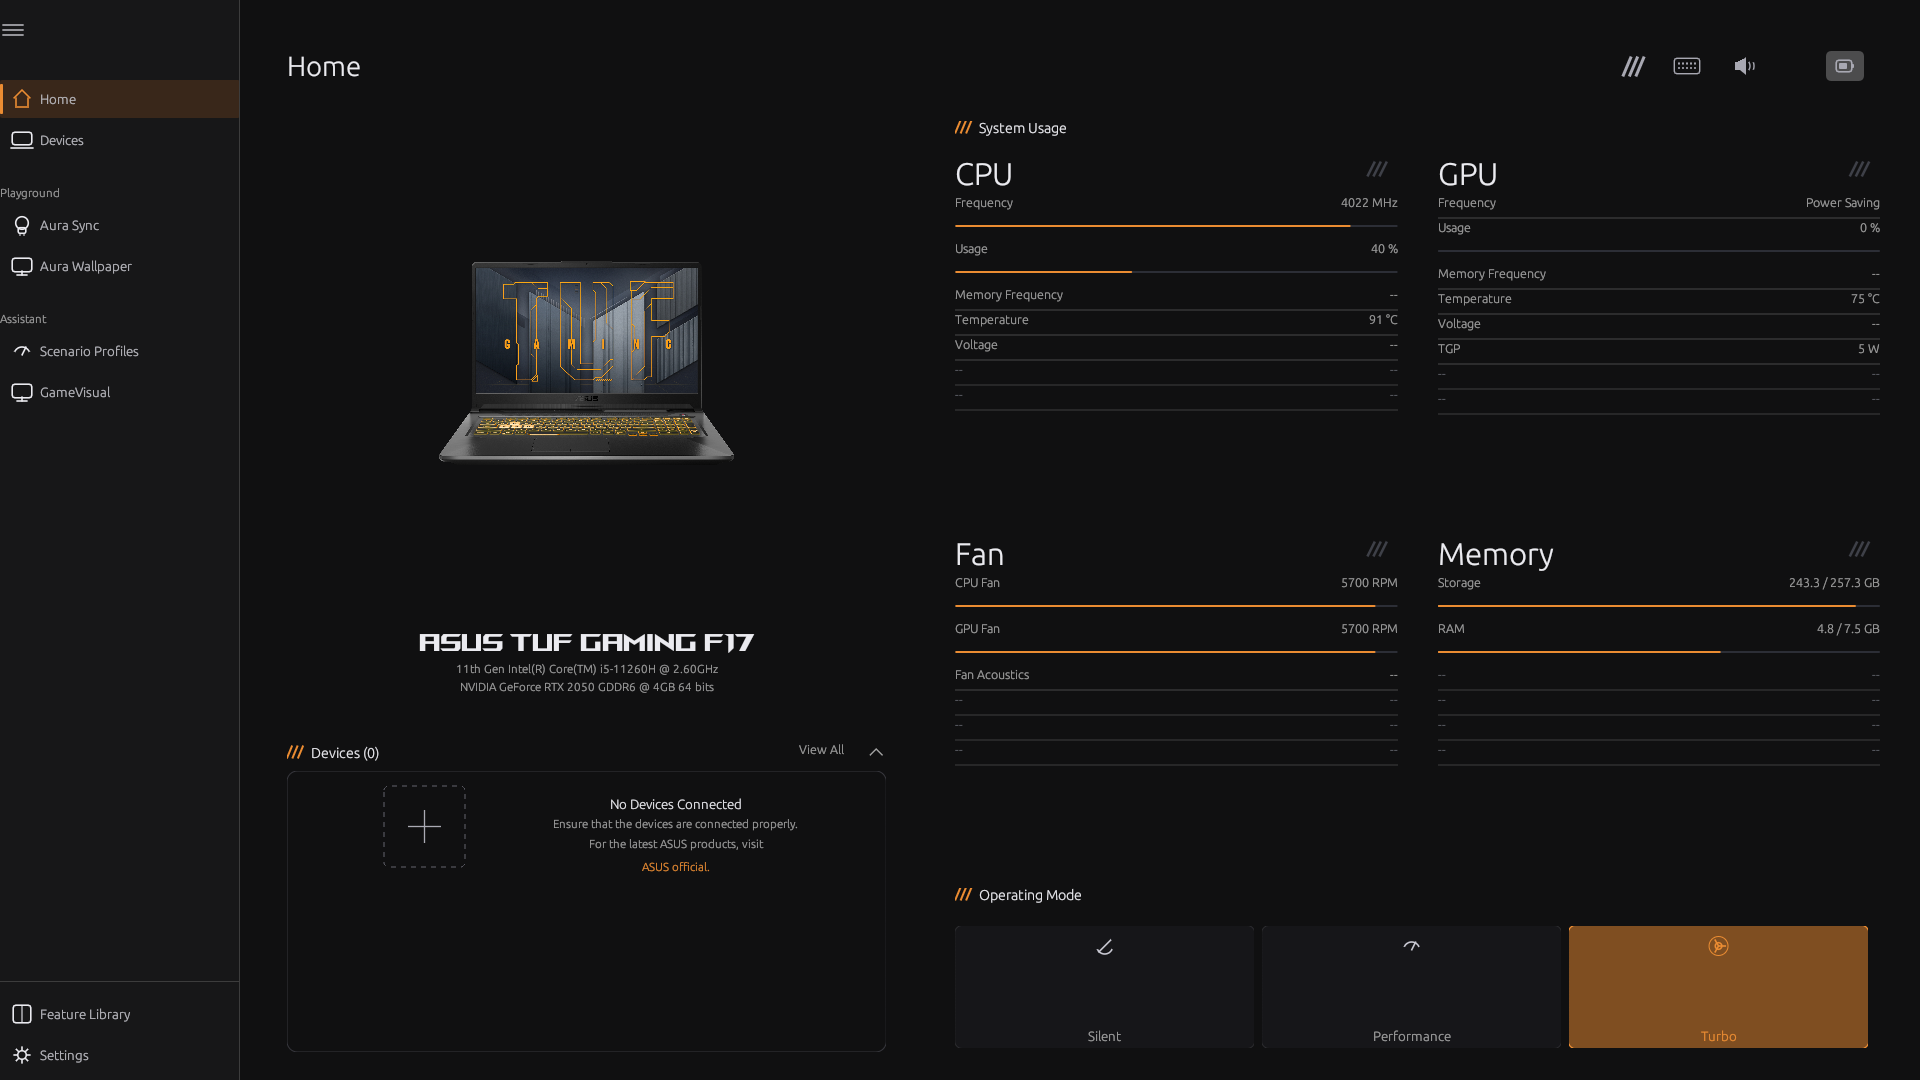
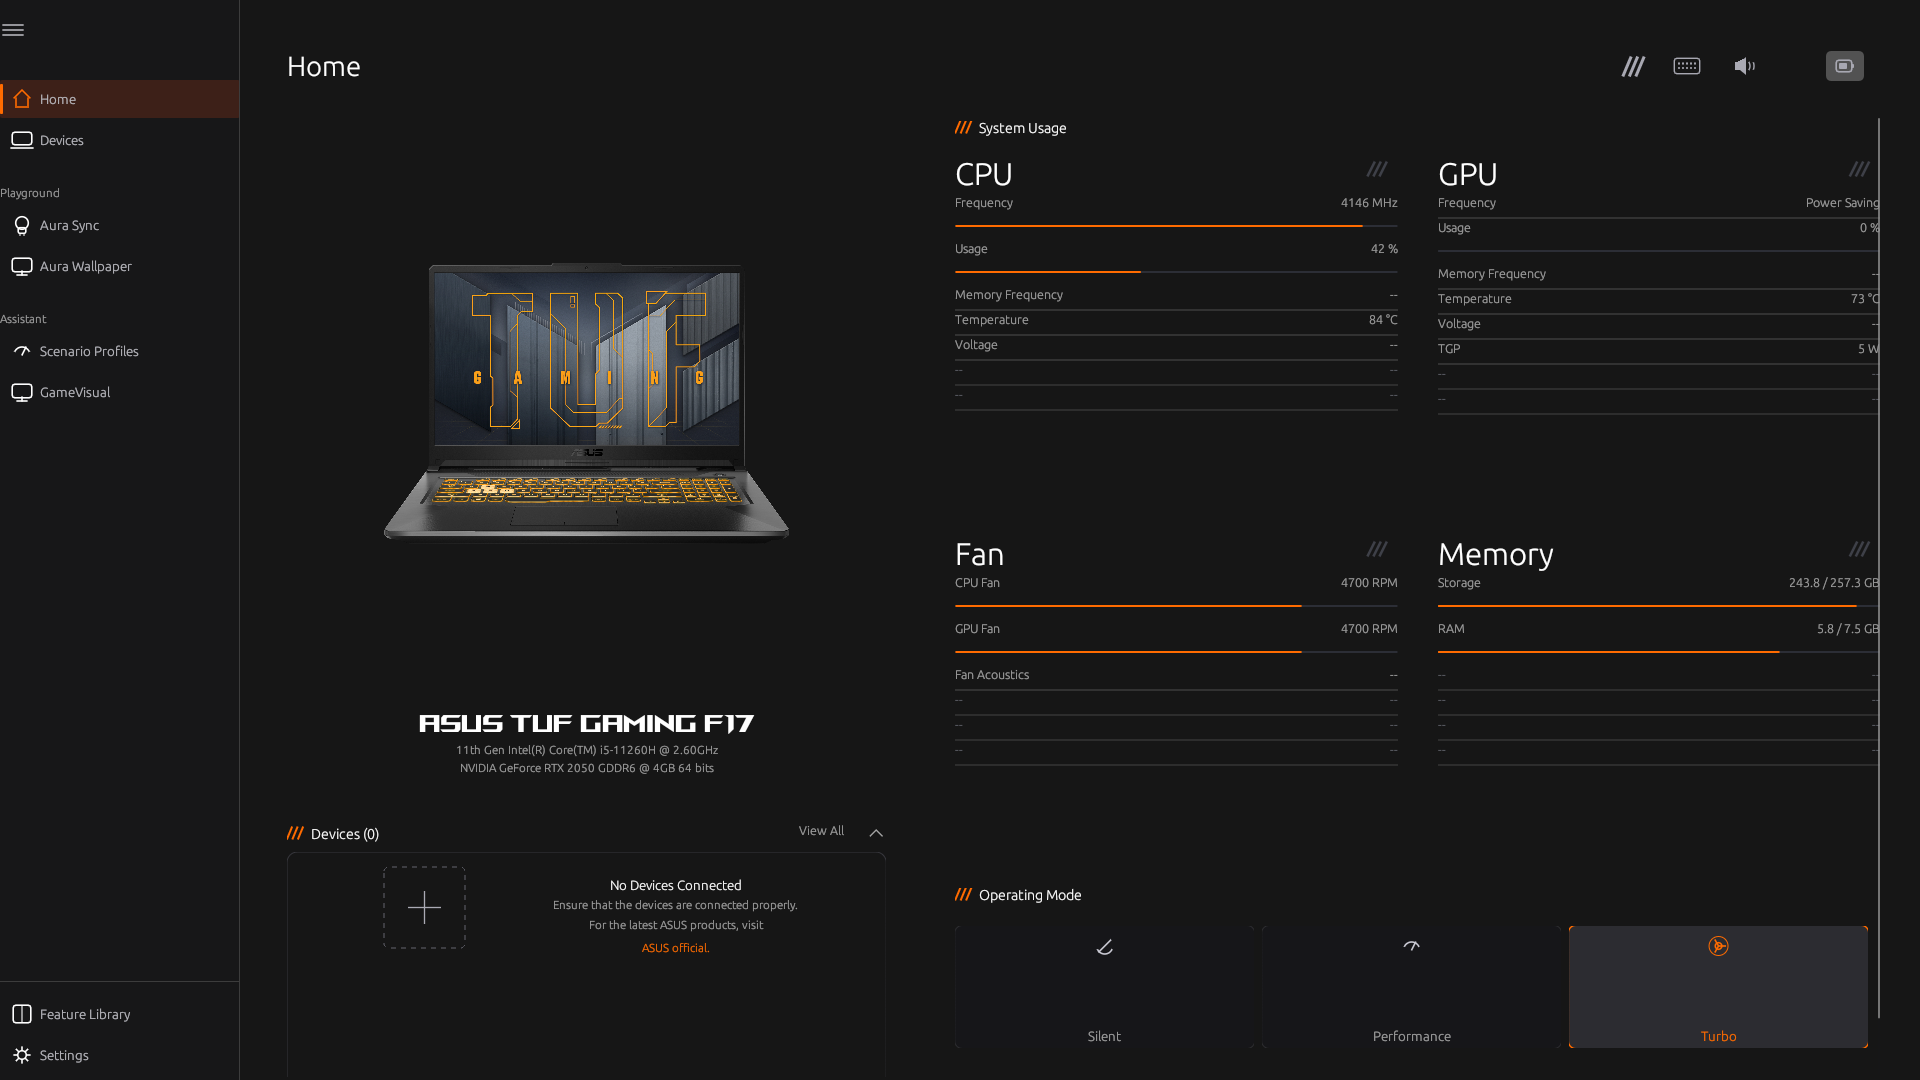
ui: working header controls, collapsible sidebar, model-aware hero/splash
- ROG/keyboard/audio/battery header icons now navigate with tooltips
- hamburger collapses/restores the sidebar
- DMI product family drives splash/Home labels; hero resolves per model
- Home hero enlarged ~37% without moving captions
- fallback preview no longer claims TUF on non-TUF models

diff --git a/crates/tuf-gui/src/main.rs b/crates/tuf-gui/src/main.rs
@@ -1470,8 +1470,22 @@ fn dashed_rounded_rect(p: &egui::Painter, rect: egui::Rect, r: f32, stroke: egui
 }
 
 /// Windows Armoury Crate header cluster: ROG mark, keyboard, audio, battery.
-fn header_icons(ui: &mut egui::Ui, battery: Option<u32>, profile: Option<&str>) {
-    let (rect, resp) = ui.allocate_exact_size(egui::vec2(250.0, 32.0), egui::Sense::hover());
+#[derive(Clone, Copy, PartialEq, Eq)]
+enum HeaderAction {
+    None,
+    Rog,
+    Keyboard,
+    Audio,
+    Battery,
+}
+
+fn header_icons(
+    ui: &mut egui::Ui,
+    battery: Option<u32>,
+    profile: Option<&str>,
+) -> HeaderAction {
+    let (rect, _) = ui.allocate_exact_size(egui::vec2(250.0, 32.0), egui::Sense::hover());
+    let mut action = HeaderAction::None;
     let p = ui.painter_at(rect);
     let muted = egui::Color32::from_rgb(168, 168, 178);
     // battery tile at the far right
@@ -1534,13 +1548,60 @@ fn header_icons(ui: &mut egui::Ui, battery: Option<u32>, profile: Option<&str>) 
             egui::Stroke::new(3.0, muted),
         ));
     }
+    let rog_rect = egui::Rect::from_center_size(
+        egui::pos2(rect.right() - 226.0, rect.center().y),
+        egui::vec2(36.0, 32.0),
+    );
+    let kb_rect = egui::Rect::from_center_size(
+        egui::pos2(rect.right() - 176.0, rect.center().y),
+        egui::vec2(34.0, 32.0),
+    );
+    let sp_rect = egui::Rect::from_center_size(
+        egui::pos2(rect.right() - 120.0, rect.center().y),
+        egui::vec2(34.0, 32.0),
+    );
+    let rog = ui.interact(rog_rect, egui::Id::new("hdr-rog"), egui::Sense::click());
+    let kb = ui.interact(kb_rect, egui::Id::new("hdr-kb"), egui::Sense::click());
+    let sp = ui.interact(sp_rect, egui::Id::new("hdr-sp"), egui::Sense::click());
+    let bat = ui.interact(tile, egui::Id::new("hdr-bat"), egui::Sense::click());
+    for (r, hovered) in [
+        (rog_rect, rog.hovered()),
+        (kb_rect, kb.hovered()),
+        (sp_rect, sp.hovered()),
+        (tile, bat.hovered()),
+    ] {
+        if hovered {
+            p.rect_filled(
+                r,
+                6.0,
+                egui::Color32::from_rgba_unmultiplied(255, 255, 255, 14),
+            );
+        }
+    }
+    if rog.clicked() {
+        action = HeaderAction::Rog;
+    } else if kb.clicked() {
+        action = HeaderAction::Keyboard;
+    } else if sp.clicked() {
+        action = HeaderAction::Audio;
+    } else if bat.clicked() {
+        action = HeaderAction::Battery;
+    }
+    rog.on_hover_cursor(egui::CursorIcon::PointingHand)
+        .on_hover_text("Home");
+    kb.on_hover_cursor(egui::CursorIcon::PointingHand)
+        .on_hover_text("Lighting & Aura Sync");
+    sp.on_hover_cursor(egui::CursorIcon::PointingHand)
+        .on_hover_text("Audio");
     let tip = match (battery, profile) {
         (Some(b), Some(p)) => format!("Battery {b}% · profile {p}"),
         (Some(b), None) => format!("Battery {b}%"),
         (None, Some(p)) => format!("profile {p}"),
-        (None, None) => "System status".into(),
+        (None, None) => "Battery & power".into(),
     };
-    resp.on_hover_text(tip);
+    bat.on_hover_cursor(egui::CursorIcon::PointingHand)
+        .on_hover_text(format!("{tip}\nOpen battery & power controls"));
+    action
 }
 
 #[allow(dead_code)]
@@ -2139,6 +2200,8 @@ struct TufApp {
     splash_start: std::time::Instant,
     splash_logo: Option<egui::TextureHandle>,
     hero_model: String,
+    device_family: String,
+    sidebar_open: bool,
     hero_image: Option<egui::TextureHandle>,
     hero_line: Option<egui::TextureHandle>,
     anim_cpu: f32,
@@ -2251,6 +2314,7 @@ impl TufApp {
         };
         apply_theme_visuals(ctx, theme);
         let hero_model = assets::detect_model();
+        let device_family = assets::device_family(&hero_model);
         let hero_image = assets::hero_texture(ctx, &hero_model, false);
         let hero_line = assets::hero_texture(ctx, &hero_model, true);
         let theme_previews = [
@@ -2301,6 +2365,8 @@ impl TufApp {
             splash_start: std::time::Instant::now(),
             splash_logo,
             hero_model,
+            device_family,
+            sidebar_open: true,
             hero_image,
             hero_line,
             theme_previews,
@@ -2801,14 +2867,15 @@ impl eframe::App for TufApp {
             });
         }
 
+        if self.sidebar_open {
         egui::SidePanel::left("nav")
             .exact_width(240.0)
             .frame(egui::Frame::none().fill(sidebar_bg()))
             .show(ctx, |ui| {
                 ui.add_space(18.0);
                 ui.horizontal(|ui| {
-                    let (r, _) =
-                        ui.allocate_exact_size(egui::vec2(26.0, 24.0), egui::Sense::hover());
+                    let (r, resp) =
+                        ui.allocate_exact_size(egui::vec2(26.0, 24.0), egui::Sense::click());
                     let p = ui.painter_at(r);
                     for i in 0..3 {
                         p.add(egui::Shape::line(
@@ -2818,6 +2885,13 @@ impl eframe::App for TufApp {
                             ],
                             egui::Stroke::new(1.5, egui::Color32::from_rgb(190, 190, 196)),
                         ));
+                    }
+                    if resp
+                        .on_hover_cursor(egui::CursorIcon::PointingHand)
+                        .on_hover_text("Hide navigation")
+                        .clicked()
+                    {
+                        self.sidebar_open = false;
                     }
                 });
                 ui.add_space(35.0);
@@ -2886,6 +2960,32 @@ impl eframe::App for TufApp {
                     ui.separator();
                 });
             });
+        } else {
+            egui::Area::new(egui::Id::new("nav-reopen"))
+                .fixed_pos(egui::pos2(10.0, 10.0))
+                .order(egui::Order::Foreground)
+                .show(ctx, |ui| {
+                    let (r, resp) =
+                        ui.allocate_exact_size(egui::vec2(30.0, 28.0), egui::Sense::click());
+                    let p = ui.painter_at(r);
+                    for i in 0..3 {
+                        p.add(egui::Shape::line(
+                            vec![
+                                egui::pos2(r.left() + 6.0, r.top() + 8.0 + i as f32 * 6.0),
+                                egui::pos2(r.right() - 6.0, r.top() + 8.0 + i as f32 * 6.0),
+                            ],
+                            egui::Stroke::new(1.6, text_main()),
+                        ));
+                    }
+                    if resp
+                        .on_hover_cursor(egui::CursorIcon::PointingHand)
+                        .on_hover_text("Show navigation")
+                        .clicked()
+                    {
+                        self.sidebar_open = true;
+                    }
+                });
+        }
 
         egui::CentralPanel::default()
             .frame(
@@ -2922,7 +3022,23 @@ impl eframe::App for TufApp {
                 ui.horizontal(|ui| {
                     ui.colored_label(text_main(), egui::RichText::new(title).size(28.0).strong());
                     ui.with_layout(egui::Layout::right_to_left(egui::Align::Center), |ui| {
-                        header_icons(ui, battery_pct, profile.as_deref());
+                        let action = header_icons(ui, battery_pct, profile.as_deref());
+                        match action {
+                            HeaderAction::Rog => self.tab = Tab::Home,
+                            HeaderAction::Keyboard => {
+                                self.tab = Tab::AuraSync;
+                                self.aura_sub = AuraTab::Effects;
+                            }
+                            HeaderAction::Audio => {
+                                self.tab = Tab::Devices;
+                                self.devices_sub = DeviceTab::Audio;
+                            }
+                            HeaderAction::Battery => {
+                                self.tab = Tab::Devices;
+                                self.devices_sub = DeviceTab::SystemConfig;
+                            }
+                            HeaderAction::None => {}
+                        }
                     });
                 });
                 ui.add_space(33.0);
@@ -3215,7 +3331,7 @@ impl TufApp {
         p.text(
             egui::pos2(center.x, center.y + logo_w * 0.55),
             egui::Align2::CENTER_CENTER,
-            "TUF GAMING F17 · tuf-crate",
+            format!("{} · {}", self.device_family, self.hero_model),
             egui::FontId::proportional(15.0),
             egui::Color32::from_rgba_unmultiplied(170, 170, 180, alpha),
         );
@@ -4733,7 +4849,10 @@ impl TufApp {
         };
         ui.colored_label(
             text_muted(),
-            "One physical lighting zone is present: the TUF Gaming F17 keyboard. Aura Sync applies effects to that zone.",
+            format!(
+                "One physical lighting zone is present: the {} keyboard. Aura Sync applies effects to that zone.",
+                self.device_family
+            ),
         );
         ui.add_space(10.0);
         let avail = ui.available_width();
@@ -4754,7 +4873,7 @@ impl TufApp {
                         .inner_margin(16.0)
                         .show(ui, |ui| {
                             ui.horizontal(|ui| {
-                                ui.label(egui::RichText::new("TUF GAMING F17").size(15.0).strong().family(rog_family()));
+                                ui.label(egui::RichText::new(self.device_family.to_uppercase()).size(15.0).strong().family(rog_family()));
                                 ui.colored_label(egui::Color32::from_rgb(120, 200, 140), " connected");
                                 ui.with_layout(egui::Layout::right_to_left(egui::Align::Center), |ui| {
                                     ui.colored_label(text_muted(), "Keyboard · single zone");
@@ -4834,7 +4953,7 @@ impl TufApp {
                 .inner_margin(14.0)
                 .show(ui, |ui| {
                     ui.label(
-                        egui::RichText::new("TUF GAMING F17 · keyboard")
+                        egui::RichText::new(format!("{} · keyboard", self.device_family.to_uppercase()))
                             .size(15.0)
                             .strong()
                             .family(rog_family()),
@@ -6603,8 +6722,12 @@ impl TufApp {
                 ui.set_width(left_w);
                 ui.add_space(143.0);
                 let (slot, _) =
-                    ui.allocate_exact_size(egui::vec2(left_w, 204.0), egui::Sense::hover());
-                let art = egui::Rect::from_center_size(slot.center(), egui::vec2(295.0, 204.0));
+                    ui.allocate_exact_size(egui::vec2(left_w, 285.0), egui::Sense::hover());
+                let art_w = (left_w * 0.68).clamp(300.0, 405.0);
+                let art = egui::Rect::from_center_size(
+                    slot.center(),
+                    egui::vec2(art_w, (art_w * 0.695).min(282.0)),
+                );
                 let p = ui.painter_at(slot);
                 let hero = if self.device_line_art {
                     self.hero_line.as_ref()
@@ -6632,7 +6755,7 @@ impl TufApp {
                 tp.text(
                     egui::pos2(txt.center().x, txt.top() + 21.0),
                     egui::Align2::CENTER_CENTER,
-                    "ASUS TUF GAMING F17",
+                    self.device_family.to_uppercase(),
                     rog_font(24.0),
                     white,
                 );
@@ -8176,7 +8299,7 @@ impl TufApp {
         p.text(
             screen.center(),
             egui::Align2::CENTER_CENTER,
-            "TUF GAMING F17 · tuf-crate",
+            "ASUS · tuf-crate",
             egui::FontId::proportional(12.0),
             egui::Color32::from_rgb(120, 200, 140),
         );

diff --git a/crates/tuf-gui/src/assets.rs b/crates/tuf-gui/src/assets.rs
@@ -124,6 +124,32 @@ pub fn detect_model() -> String {
     "GENERIC".to_string()
 }
 
+/// Human-readable product family from DMI, with the model token removed.
+/// Example: "ASUS TUF Gaming F17 FX706HF_FX706HF" + FX706HF -> "ASUS TUF Gaming F17".
+pub fn device_family(model: &str) -> String {
+    for path in ["/sys/class/dmi/id/product_name", "/sys/class/dmi/id/board_name"] {
+        if let Ok(raw) = std::fs::read_to_string(path) {
+            let raw = raw.trim();
+            if raw.is_empty() {
+                continue;
+            }
+            if !model.is_empty() {
+                if let Some(idx) = raw.to_uppercase().find(&model.to_uppercase()) {
+                    let prefix = raw[..idx].trim();
+                    if !prefix.is_empty() {
+                        return prefix.to_string();
+                    }
+                }
+            }
+            let cleaned = raw.split('_').next().unwrap_or(raw).trim();
+            if !cleaned.is_empty() {
+                return cleaned.to_string();
+            }
+        }
+    }
+    "ASUS Laptop".to_string()
+}
+
 /// Load the model's local hero render (official ASUS product artwork, local only).
 pub fn hero_texture(
     ctx: &egui::Context,

diff --git a/docs/UI-VERIFICATION.md b/docs/UI-VERIFICATION.md
@@ -109,6 +109,17 @@ Verified headlessly (Xvfb) — see `docs/images/home-hero.png` and `docs/images/
   boot config, which the daemon applies before the display manager. docs/SAFETY.md,
   UNSUPPORTED.md and ASUS-LINUX-FEATURE-RESEARCH.md record the evidence.
 
+## Addendum — model-aware shell and live header controls (2026-11-03)
+
+- Header icons are interactive: ROG mark → Home, keyboard → Aura Effects, speaker → Audio,
+  battery tile → System Configuration; each has a tooltip and pointing cursor.
+- Sidebar hamburger collapses the navigation; a floating hamburger reopens it.
+- Product family is read from DMI and used in the splash and Home title
+  (e.g. `ASUS TUF Gaming F17 · FX706HF`). Hero assets resolve by detected model
+  (`hero-device/<MODEL>.png`); other models get the vector fallback instead of a wrong
+  FX706HF render.
+- Home hero is 37 % larger (405 px wide at 1920) while caption positions stay fixed.
+
 ## Addendum — Devices and Aura UI pass (2026-11-02, later)
 
 - System Configuration: four large control cards (Performance, Keyboard, Power & battery,
